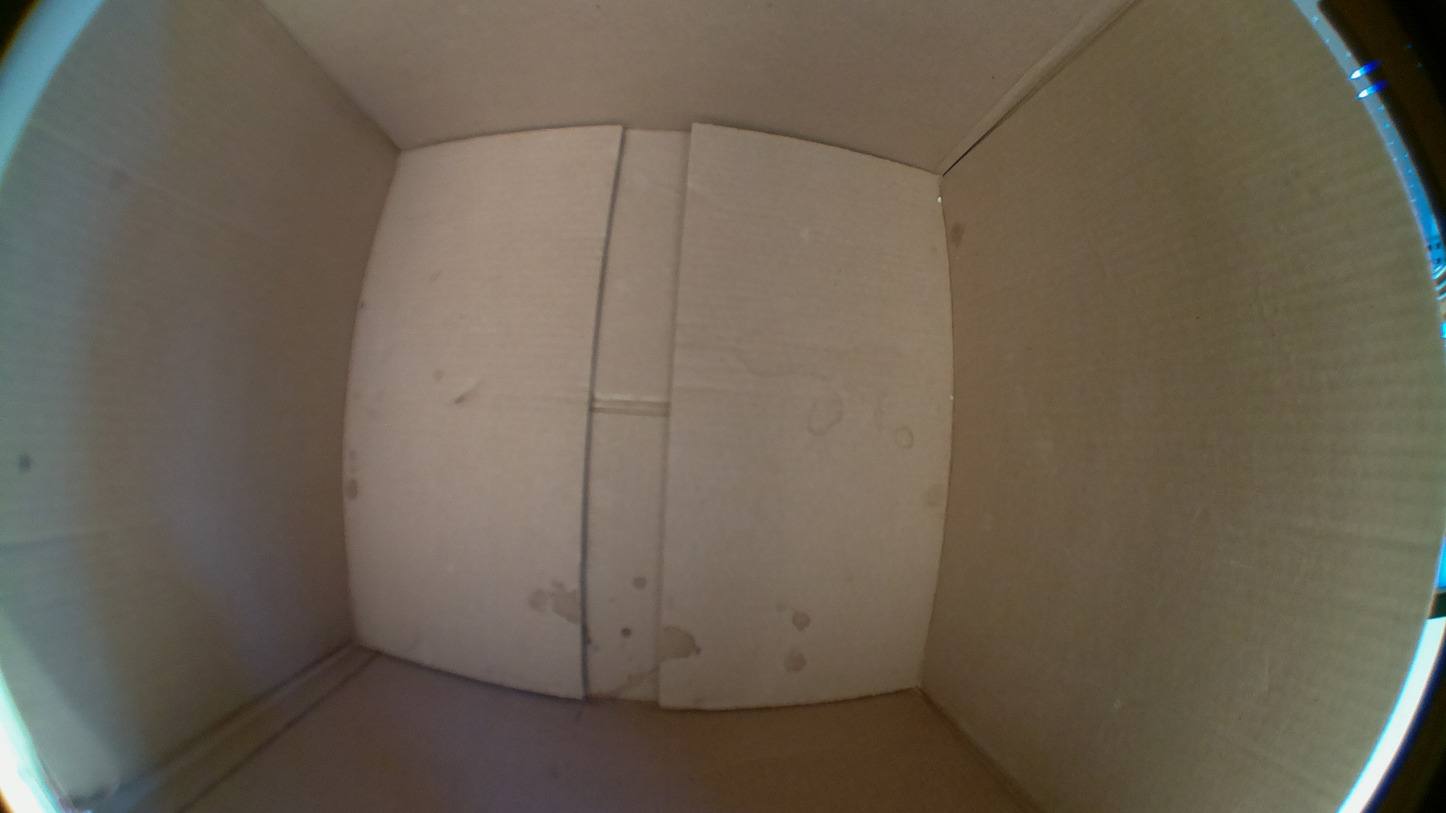
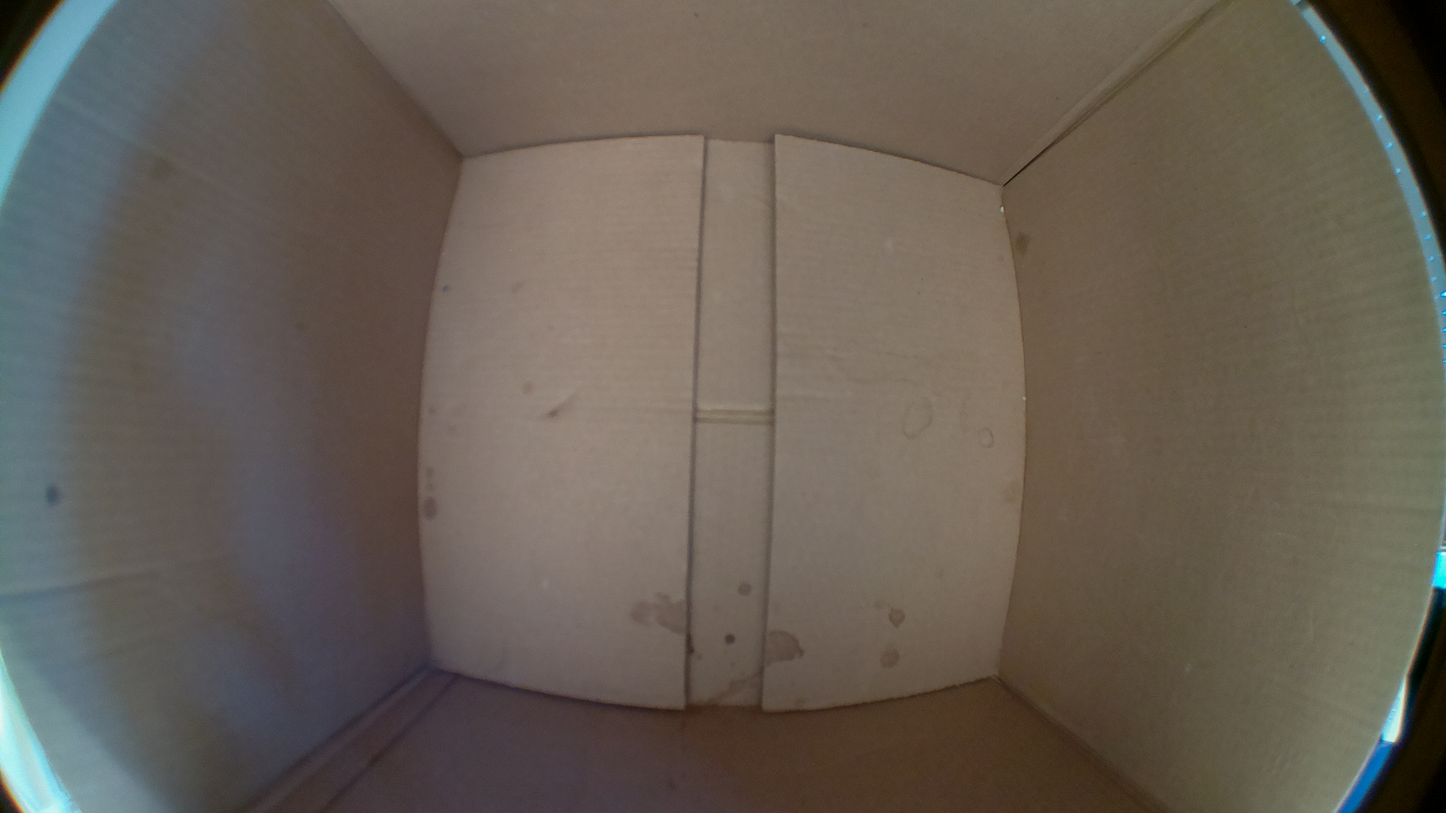
commiting all the new imgs

diff --git a/webapps/cv_code/Calibrate.py b/webapps/cv_code/Calibrate.py
@@ -41,6 +41,9 @@ DEFAULT_D=np.array([[0.054508147613983864], [-0.018423201337080013], [-0.0158574
 # DEFAULT_K=np.array([[746.6611669643795, 0.0, 1258.0834963310779], [0.0, 746.7693228265135, 748.2604564297882], [0.0, 0.0, 1.0]])
 # DEFAULT_D=np.array([[0.04818181468970269], [-0.012787709242349402], [-0.016624091910845094], [0.006814930852439065]])
 
+#This is the final version, I havn't really been able to fix the full distortion of the image, but it'll have to do for now
+# DEFAULT_K=np.array([[746.205011008588, 0.0, 1259.599390114775], [0.0, 746.3719965670107, 751.7773066350132], [0.0, 0.0, 1.0]])
+# DEFAULT_D=np.array([[0.0557504888972436], [-0.025822106030366027], [-0.007766810011750379], [0.004721292292724637]])
 
 DEFAULT_DIM = (2560,1440)
 
@@ -100,7 +103,7 @@ def calibrate(calib_imgs_folder_path = "Calib_imgs"):
     return (K, D)
 
 def undistort_img(img, K = DEFAULT_K, D = DEFAULT_D, DIM=DEFAULT_DIM):
-    new_K = cv2.fisheye.estimateNewCameraMatrixForUndistortRectify(K, D, DIM, np.eye(3), balance=0)
+    new_K = cv2.fisheye.estimateNewCameraMatrixForUndistortRectify(K, D, DIM, np.eye(3), balance=.3)
     map1, map2 = cv2.fisheye.initUndistortRectifyMap(K, D, np.eye(3), new_K, DIM, cv2.CV_16SC2)
     undistorted_img = cv2.remap(img, map1, map2, interpolation=cv2.INTER_CUBIC, borderMode=cv2.BORDER_CONSTANT)
     return undistorted_img
@@ -131,8 +134,8 @@ def write_to_output(imgs, names, out_dir="Output/undistort_output"):
 
 
 if __name__ == "__main__":
-    (K, D) = calibrate()
-    # (K, D) = (DEFAULT_K, DEFAULT_D)
+    # (K, D) = calibrate()
+    (K, D) = (DEFAULT_K, DEFAULT_D)
     imgs = [cv2.imread("bg.jpeg")]
     names = ["bg.jpeg"]
     for fname in os.listdir("TopDown"):

diff --git a/webapps/cv_code/cv_code_main.py b/webapps/cv_code/cv_code_main.py
@@ -553,6 +553,7 @@ def test_images_labeled(target_subfolder_name, iconic_subfolder_path="Iconic", b
 
 def test_arbitrary_images(target_subfolder_name="TopDown", iconic_subfolder_path="Iconic", bg_path = "bg.jpeg"):
     #tests a set of arbitrary images
+    bg_img = cv.imread(bg_path)
     iconic_dict = read_images_desc_subfolder(iconic_subfolder_path)
     target_dict = read_images_desc_folder(target_subfolder_name)
     matches_dict = perform_pairwise_comparisons_arbitrary(iconic_dict,target_dict)
@@ -636,7 +637,7 @@ def get_best_guess_or_none(bg_image_path, new_image_path, additional_iconic_clas
 
 
 if __name__ == "__main__":
-    out = test_arbitrary_images("TopDown", bg_path="bg2.jpeg")
+    out = test_arbitrary_images("TopDown", bg_path="real_bg.jpeg")
     # alg_info_dict_to_excel(out, f"SIFT_{subfolder_name}_test")
 
     # orb = cv.ORB_create(nfeatures=10000)
